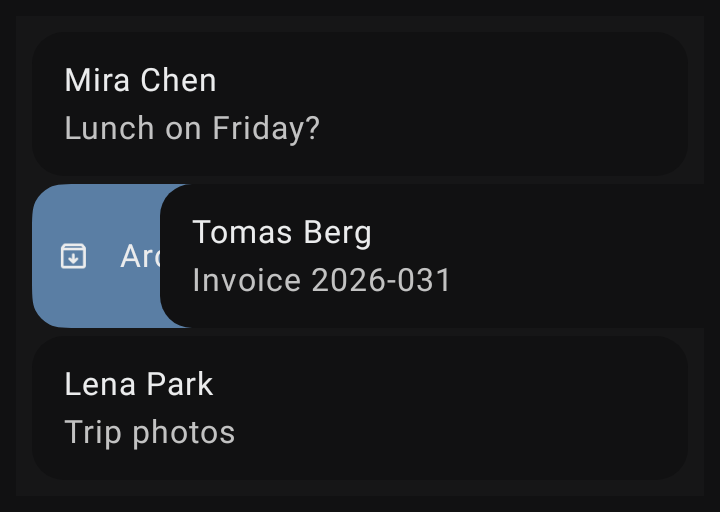
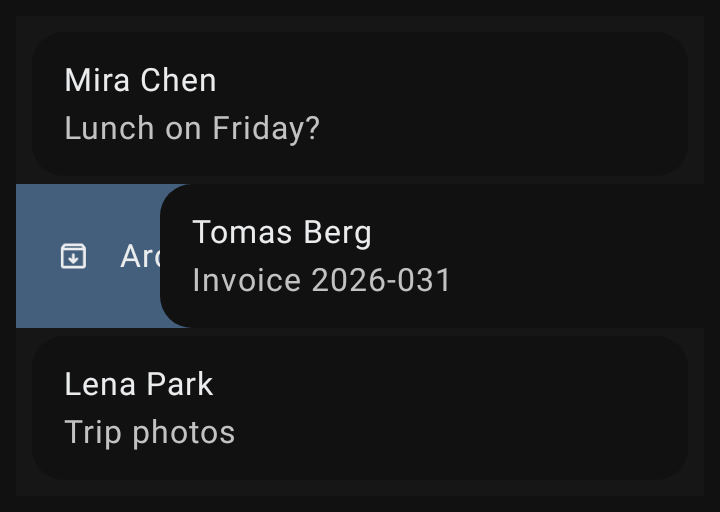
feat(swipe): extend the swipe accent to the screen edges (#166)
* feat(swipe): extend the swipe accent to the screen edges

- Add an edgeInset to SwipeActions so the row stays inset while its band fills the width.
- Flare the band into the screen edge with small inverted corners.
- Fill the band with accentDark, the primary button's fill.
- Re-record the swipe screenshots.

* feat(swipe): flare the swipe band around neighboring cards

- Curve the band's edge flares around the cards above and below at the list gap.
- Use the card radius for the inverted corners, replacing the fixed flare size.

* fix(swipe): make the band's edge flares flush with the screen edge

- Draw each flare as an inverted corner of the card radius that meets the edge.
- Drop the strip beside the neighbor card that left a step at the edge.

* fix(swipe): drop the inverted corners from the swipe band

- Draw the band as a plain edge-to-edge strip at the row's height.

Changed region(s): [[0.0, 0.3438, 0.2444, 0.6562]]

diff --git a/designsystem/src/commonMain/kotlin/com/otus/designsystem/shared/swipe/components/SwipeActions.kt b/designsystem/src/commonMain/kotlin/com/otus/designsystem/shared/swipe/components/SwipeActions.kt
@@ -13,6 +13,7 @@ import androidx.compose.foundation.gestures.anchoredDraggable
 import androidx.compose.foundation.layout.Box
 import androidx.compose.foundation.layout.fillMaxWidth
 import androidx.compose.foundation.layout.offset
+import androidx.compose.foundation.layout.padding
 import androidx.compose.runtime.Composable
 import androidx.compose.runtime.LaunchedEffect
 import androidx.compose.runtime.SideEffect
@@ -34,8 +35,10 @@ import androidx.compose.ui.platform.LocalLayoutDirection
 import androidx.compose.ui.semantics.CustomAccessibilityAction
 import androidx.compose.ui.semantics.customActions
 import androidx.compose.ui.semantics.semantics
+import androidx.compose.ui.unit.Dp
 import androidx.compose.ui.unit.IntOffset
 import androidx.compose.ui.unit.LayoutDirection
+import androidx.compose.ui.unit.dp
 import com.otus.designsystem.theme.motion.LocalMotionScale
 import com.otus.designsystem.theme.motion.Motion
 import com.otus.designsystem.theme.motion.MotionSpeed
@@ -49,8 +52,10 @@ import kotlin.math.roundToInt
 
 /**
  * Hosts a row that reveals [startToEnd] when dragged toward the end edge and [endToStart] when
- * dragged toward the start edge. An accent card the row's size waits behind it, so the row slides
- * off it; give [content] an opaque background, such as a card. The
+ * dragged toward the start edge. An accent band the row's height waits behind it, so the row slides
+ * off it; give [content] an opaque background, such as a card. The band fills the whole width, so
+ * with [edgeInset] between the row and the screen edges it reaches the edges while the row stays
+ * inset. The
  * action's icon grows in beside its label until the fixed threshold, where a haptic marks that
  * release will act.
  * Releasing past it flashes and runs the action once; shorter drags spring back. The row stops
@@ -66,6 +71,7 @@ public fun SwipeActions(
     startToEnd: SwipeAction?,
     endToStart: SwipeAction?,
     modifier: Modifier = Modifier,
+    edgeInset: Dp = 0.dp,
     settledBy: Any? = null,
     content: @Composable () -> Unit,
 ) {
@@ -104,12 +110,13 @@ public fun SwipeActions(
                 abs(offset),
                 direction == SwipeAnchor.StartToEnd,
                 flash.value,
+                edgeInset,
                 Modifier.matchParentSize(),
             ) {
                 revealWidths[direction] = maxOf(threshold, it)
             }
         }
-        SwipeForeground(rowOffset, content)
+        SwipeForeground(rowOffset, edgeInset, content)
     }
 }
 
@@ -247,16 +254,18 @@ internal fun ThresholdHaptic(armed: Boolean) {
     LaunchedEffect(armed) { if (armed) haptics.performHapticFeedback(HapticFeedbackType.GestureThresholdActivate) }
 }
 
-/** The row itself, moved by [offset]; opaque so the revealed area never shows through it. */
+/** The row itself, [inset] from the edges and moved by [offset]; opaque so the revealed area never shows through it. */
 @Composable
 private fun SwipeForeground(
     offset: Float,
+    inset: Dp,
     content: @Composable () -> Unit,
 ) {
     val sign = if (LocalLayoutDirection.current == LayoutDirection.Rtl) -1f else 1f
     Box(
         Modifier
             .fillMaxWidth()
+            .padding(horizontal = inset)
             .offset { IntOffset((offset * sign).roundToInt(), 0) },
     ) { content() }
 }

diff --git a/designsystem/src/commonMain/kotlin/com/otus/designsystem/shared/swipe/components/SwipeBackdrop.kt b/designsystem/src/commonMain/kotlin/com/otus/designsystem/shared/swipe/components/SwipeBackdrop.kt
@@ -15,27 +15,25 @@ import androidx.compose.material.Text
 import androidx.compose.runtime.Composable
 import androidx.compose.ui.Alignment
 import androidx.compose.ui.Modifier
-import androidx.compose.ui.draw.clip
 import androidx.compose.ui.draw.drawBehind
 import androidx.compose.ui.graphics.graphicsLayer
 import androidx.compose.ui.layout.onSizeChanged
 import androidx.compose.ui.platform.LocalDensity
 import androidx.compose.ui.platform.LocalLayoutDirection
+import androidx.compose.ui.unit.Dp
 import androidx.compose.ui.unit.LayoutDirection
 import com.otus.designsystem.shared.controls.elements.Symbol
 import com.otus.designsystem.theme.colors.OtusColors
 import com.otus.designsystem.theme.motion.Motion
 import com.otus.designsystem.theme.motion.MotionSpeed
-import com.otus.designsystem.theme.shapes.SmoothCornerShape
-import com.otus.designsystem.theme.tokens.rows.EntryTokens
 import com.otus.designsystem.theme.tokens.rows.SwipeTokens
 import kotlin.math.abs
 
 /**
- * The accent card behind a swiped row, the row card's full size and shape, which the row slides
- * off. The action's icon and label sit at the edge the row uncovers. The icon grows and slides in
- * until the drag [distance] reaches the threshold. A release that commits brightens the card by
- * [flash]. [onMeasured] reports the width the label needs.
+ * The accent band behind a swiped row, edge to edge at the row's height, which the row slides off.
+ * The action's icon and label sit [edgeInset] in from the band's edge, where the row's card begins.
+ * The icon grows and slides in until the drag [distance] reaches the threshold. A release that
+ * commits brightens the band by [flash]. [onMeasured] reports the width the label needs.
  */
 @Composable
 internal fun SwipeBackdrop(
@@ -43,6 +41,7 @@ internal fun SwipeBackdrop(
     distance: Float,
     fromStart: Boolean,
     flash: Float,
+    edgeInset: Dp,
     modifier: Modifier,
     onMeasured: (Float) -> Unit,
 ) {
@@ -53,14 +52,15 @@ internal fun SwipeBackdrop(
     val shift = with(density) { SwipeTokens.iconEntry.toPx() } * (1f - progress) * if (fromLeft) -1f else 1f
     Box(
         modifier
-            .clip(SmoothCornerShape(EntryTokens.radius))
-            .background(OtusColors.accentRegular)
+            .background(OtusColors.accentDark)
             .drawBehind { if (flash > 0f) drawRect(OtusColors.text1.copy(alpha = flash)) },
     ) {
         Row(
             Modifier
                 .align(if (fromStart) Alignment.CenterStart else Alignment.CenterEnd)
                 .fillMaxHeight()
+                // Outside the measurement, so the row still stops just past the label.
+                .padding(horizontal = edgeInset)
                 .onSizeChanged { onMeasured(it.width.toFloat()) }
                 .padding(horizontal = SwipeTokens.inset),
             horizontalArrangement = Arrangement.spacedBy(SwipeTokens.gap),

diff --git a/designsystem/src/androidHostTest/kotlin/com/otus/designsystem/shared/swipe/components/SwipeActionsScreenshotTest.kt b/designsystem/src/androidHostTest/kotlin/com/otus/designsystem/shared/swipe/components/SwipeActionsScreenshotTest.kt
@@ -62,9 +62,9 @@ class SwipeActionsScreenshotTest {
 
     @Composable
     private fun Rows() =
-        // The list's own surface and spacing, which show around the cards.
+        // The list's own surface and spacing, which show around the cards; rows inset themselves.
         Column(
-            Modifier.background(OtusColors.bgRegular).padding(InboxTokens.pageInset),
+            Modifier.background(OtusColors.bgRegular).padding(vertical = InboxTokens.pageInset),
             verticalArrangement = Arrangement.spacedBy(EntryTokens.gap),
         ) {
             Row("Mira Chen", "Lunch on Friday?")
@@ -81,6 +81,7 @@ class SwipeActionsScreenshotTest {
         SwipeAction(UiAction("Archive", Res.drawable.symbol_archive) {}),
         SwipeAction(UiAction("Delete", Res.drawable.symbol_delete) {}, dismisses = true),
         modifier,
+        edgeInset = InboxTokens.pageInset,
     ) {
         Column(
             Modifier

diff --git a/CHANGELOG.md b/CHANGELOG.md
@@ -2,6 +2,9 @@
 
 ## Unreleased
 
+- Design system: `SwipeActions` takes an `edgeInset`. It insets the row by that much and lets the
+  swipe's accent band fill the full width, out to the screen edges. The band now uses
+  `accentDark`, the primary button's fill, and is no longer rounded.
 - Design system: `folderSymbol("scheduled")` gives the schedule-send symbol, so a Scheduled
   folder no longer shows the plain folder symbol.
 - Settings: the theme page drops its Accent color section and custom accent sheet. Apps set the
